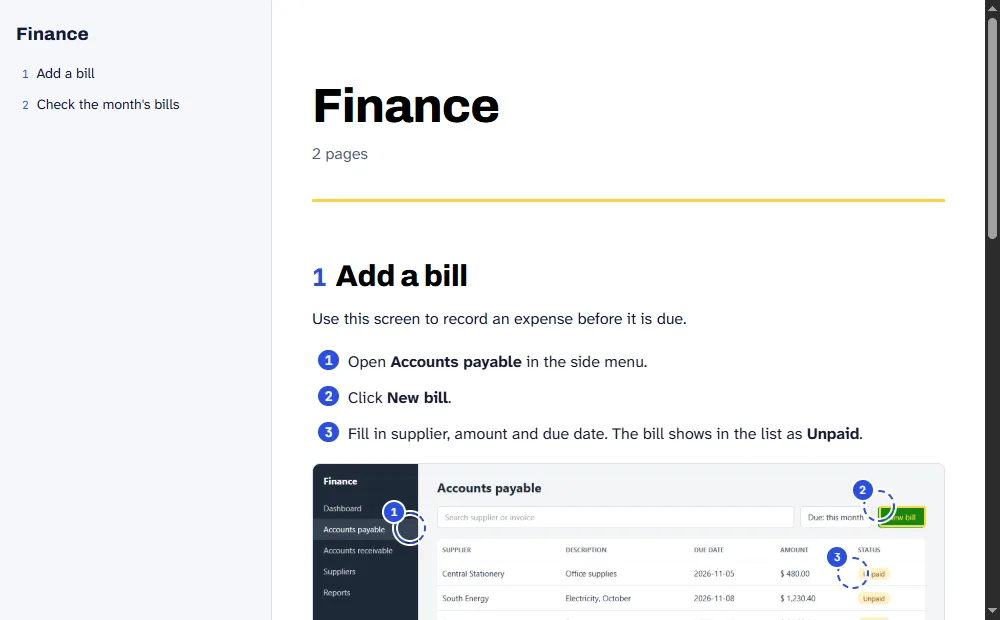
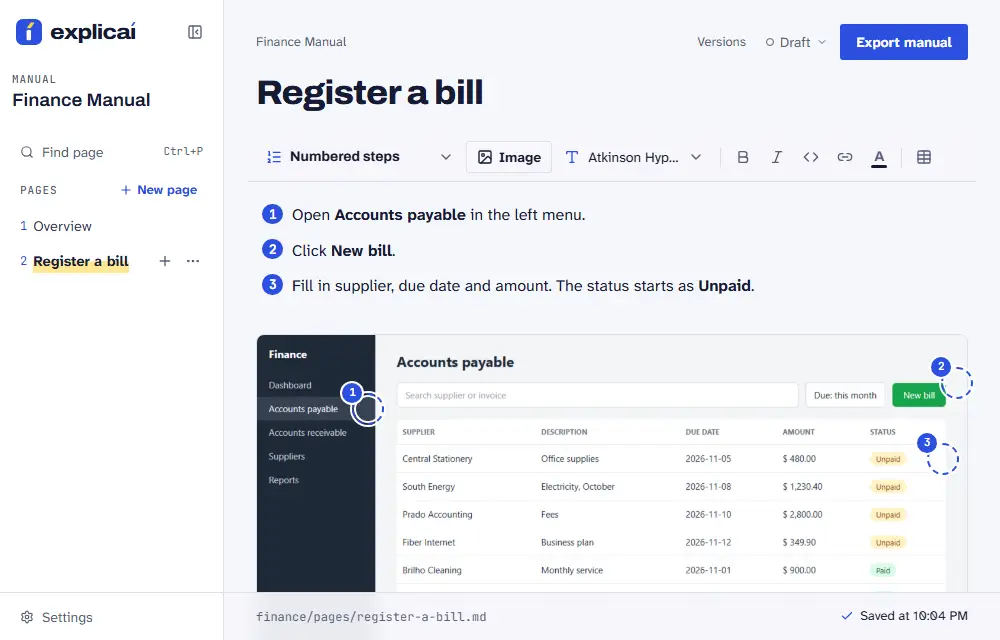
fix(site): prints novos do Studio, com variante escura / new Studio screenshots, with dark variants
Refaz hero, ocultar, marca, tamanho e marcações numa rodada só (Studio 0.2.1,
pt e en, sem barra de rolagem, marcadores fora do texto). Cada print ganha
variante escura via picture e prefers-color-scheme. Fecha T-013 a T-016.

diff --git a/site/features/index.html b/site/features/index.html
@@ -61,28 +61,28 @@
 <section class="rec" id="ocultar">
 <div class="wrap">
 <div class="txt"><span class="num" aria-hidden="true">01</span><h2>Esconda o dado do cliente antes de o print sair da sua máquina.</h2><p>Selecione a área com a ferramenta Ocultar (tecla O) e escolha tarja ou desfoque. O Studio grava o efeito nos pixels da imagem e apaga o original. Não sobra camada para alguém remover depois.</p><ul class="det"><li><b>Tarja ou desfoque forte.</b> A tarja é o padrão. O desfoque pixela e borra a área.</li><li><b>Original apagado.</b> Se a pasta do manual está no git, o Studio avisa antes.</li><li><b>Exports antigos.</b> O lembrete na tela diz que HTML e PDF já gerados ainda têm o original. Gere de novo.</li><li><b>Sem aplicar, nada acontece.</b> Sair sem aplicar a ocultação pede confirmação.</li></ul></div>
-<figure><img src="../img/feat-ocultar-pt.webp" width="1230" height="752" loading="eager" alt="Janela Editar imagem com a ferramenta Ocultar ativa: uma tarja escura cobre a coluna Fornecedor da tabela Contas a pagar, e o painel ao lado oferece Tarja, Desfoque e Aplicar ocultação. Três marcadores numerados ficam sobre o menu, o botão Nova conta e a situação."><figcaption>A tarja cobre a coluna de fornecedores antes de aplicar.</figcaption></figure>
+<figure><picture><source srcset="../img/feat-ocultar-pt-dark.webp" media="(prefers-color-scheme:dark)"><img src="../img/feat-ocultar-pt.webp" width="960" height="602" loading="eager" alt="Janela Editar imagem com a ferramenta Ocultar ativa: uma tarja escura cobre a coluna Fornecedor da tabela Contas a pagar, e o painel ao lado oferece Tarja, Desfoque e Aplicar ocultação. Três marcadores numerados ficam sobre o menu, o botão Nova conta e a situação."></picture><figcaption>A tarja cobre a coluna de fornecedores antes de aplicar.</figcaption></figure>
 </div>
 </section>
 
 <section class="rec alt inv" id="marca">
 <div class="wrap">
 <div class="txt"><span class="num" aria-hidden="true">02</span><h2>O manual sai com a cara do cliente.</h2><p>No diálogo de exportação você sobe o logo e escolhe as cores e a fonte. Cada manual guarda o seu tema, então o visual de um cliente não vaza para o de outro.</p><ul class="det"><li><b>Logo na capa.</b> Aparece também no topo do sumário, no HTML e no PDF. Aceita PNG, JPG e SVG.</li><li><b>Cores do tema.</b> Texto, destaque, realce e cada nível de título, com paletas prontas e o código da cor.</li><li><b>Nove fontes.</b> Archivo, Atkinson Hyperlegible Next, Inter, Source Sans 3, Source Serif 4, Lora, Montserrat, Playfair Display e JetBrains Mono. Vão junto do HTML exportado, sem depender de rede.</li><li><b>Aviso de contraste.</b> O diálogo avisa quando a cor escolhida não chega a 4,5:1 com o branco.</li></ul></div>
-<figure><img src="../img/feat-marca-pt.webp" width="1280" height="949" loading="lazy" alt="Diálogo Exportar manual com os formatos Site, PDF e Markdown, o logo do cliente já enviado e as cores do manual, com a paleta Ameixa escolhida."><figcaption>Logo, cores e fontes ficam no mesmo diálogo da exportação.</figcaption></figure>
+<figure><picture><source srcset="../img/feat-marca-pt-dark.webp" media="(prefers-color-scheme:dark)"><img src="../img/feat-marca-pt.webp" width="1000" height="720" loading="lazy" alt="Diálogo Exportar manual rolado até o logo do cliente e as cores do manual: o logo Prado Contabilidade já enviado e a paleta Ameixa escolhida."></picture><figcaption>Logo, cores e fontes ficam no mesmo diálogo da exportação.</figcaption></figure>
 </div>
 </section>
 
 <section class="rec" id="recortar">
 <div class="wrap">
 <div class="txt"><span class="num" aria-hidden="true">03</span><h2>Corte, dimensione e emagreça o print.</h2><p>Print de tela cheia pesa e distrai. Recorte o que importa, escolha quanto espaço a imagem ocupa e reduza o arquivo.</p><ul class="det"><li><b>Recortar (R).</b> As marcações acompanham o corte, e a confirmação lista as que vão sumir.</li><li><b>Tamanho.</b> Pequena, Média ou Larga. Fica guardado ao lado da imagem e vale no editor, no HTML e no PDF.</li><li><b>Reduzir resolução e peso.</b> Sugere 1600 px de largura, mostra o peso antes e depois e nunca amplia a imagem. Fica livre quando não há recorte nem ocultação pendente.</li></ul></div>
-<figure><img src="../img/feat-tamanho-pt.webp" width="1230" height="752" loading="lazy" alt="Janela Editar imagem com a ferramenta Recortar ativa: um retângulo tracejado marca a parte que fica, e o painel Reduzir imagem mostra 3840 × 2160 px, largura de 1600 px e o peso previsto."><figcaption>Recorte em andamento e, ao lado, o painel Reduzir imagem.</figcaption></figure>
+<figure><picture><source srcset="../img/feat-tamanho-pt-dark.webp" media="(prefers-color-scheme:dark)"><img src="../img/feat-tamanho-pt.webp" width="960" height="602" loading="lazy" alt="Janela Editar imagem com a ferramenta Recortar ativa: um retângulo marca a parte que fica, e o painel Reduzir imagem mostra 2400 × 1400 px, largura de 1600 px e o peso previsto."></picture><figcaption>Recorte em andamento e, ao lado, o painel Reduzir imagem.</figcaption></figure>
 </div>
 </section>
 
 <section class="rec alt inv" id="marcacoes">
 <div class="wrap">
 <div class="txt"><span class="num" aria-hidden="true">04</span><h2>Marque a tela e explique cada ponto.</h2><p>Marcadores numerados, destaques, setas e áreas clicáveis, com uma legenda para cada número. A mesma marcação aparece no editor, no HTML e no PDF.</p><ul class="det"><li><b>Atalhos de letra.</b> V seleciona, M marca, D destaca, S desenha seta, A cria área clicável.</li><li><b>Área clicável.</b> Um ponto do print vira link para outra página do manual.</li><li><b>Legenda.</b> Quem lê vê o número e o que ele mostra, logo abaixo da imagem.</li></ul></div>
-<figure><img src="../img/passo-2-pt.webp" width="1000" height="700" loading="lazy" alt="Print da tela Contas a pagar no editor, com três marcadores numerados, o botão Nova conta destacado em amarelo e a legenda de cada número logo abaixo."><figcaption>Marcadores, destaque e legenda no print.</figcaption></figure>
+<figure><picture><source srcset="../img/feat-marcacoes-pt-dark.webp" media="(prefers-color-scheme:dark)"><img src="../img/feat-marcacoes-pt.webp" width="960" height="734" loading="lazy" alt="Janela Editar imagem sobre a tela Contas a pagar, com três marcadores numerados, o filtro de vencimento destacado em amarelo, uma seta até ele e a legenda de cada número no painel ao lado: Menu Contas a pagar, Botão Nova conta, Situação da conta."></picture><figcaption>Marcadores, destaque e seta no print, com a legenda de cada número.</figcaption></figure>
 </div>
 </section>
 
@@ -104,7 +104,7 @@
 <section class="rec" id="exportacao">
 <div class="wrap">
 <div class="txt"><span class="num" aria-hidden="true">07</span><h2>PDF para ler, HTML para publicar, Markdown para a IA.</h2><p>Um clique gera o formato. O Markdown sai em um arquivo só, com a legenda dos prints em texto.</p><div class="fmts"><div><code>PDF</code><span>Para imprimir ou mandar por e-mail.</span></div><div><code>HTML</code><span>Um arquivo para publicar ou abrir no navegador.</span></div><div><code>MD</code><span>Um arquivo só, com a legenda dos prints em texto.</span></div></div></div>
-<figure><img src="../img/passo-3-pt.webp" width="1000" height="700" loading="lazy" alt="Janela Exportar manual com três formatos para escolher: Site (HTML), PDF e Markdown para IA."><figcaption>Os três formatos no diálogo de exportação.</figcaption></figure>
+<figure><img src="../img/passo-3-pt.webp" width="1000" height="700" loading="lazy" alt="Janela Exportar manual com três formatos para escolher: Site (HTML), PDF e Markdown para IA."></picture><figcaption>Os três formatos no diálogo de exportação.</figcaption></figure>
 </div>
 </section>
 

diff --git a/site/en/features/index.html b/site/en/features/index.html
@@ -61,28 +61,28 @@
 <section class="rec" id="ocultar">
 <div class="wrap">
 <div class="txt"><span class="num" aria-hidden="true">01</span><h2>Hide the client's data before the screenshot leaves your machine.</h2><p>Select the area with the Hide tool (key O) and pick a bar or a blur. Studio burns the effect into the image pixels and deletes the original. No layer is left for someone to remove later.</p><ul class="det"><li><b>Bar or strong blur.</b> The bar is the default. The blur pixelates and smears the area.</li><li><b>Original deleted.</b> If the manual folder is in git, Studio warns you first.</li><li><b>Old exports.</b> An on-screen reminder says HTML and PDF files you already made still hold the original. Export again.</li><li><b>Nothing happens until you apply.</b> Leaving without applying asks for confirmation.</li></ul></div>
-<figure><img src="../../img/feat-ocultar-en.webp" width="1230" height="752" loading="eager" alt="Edit image window with the Hide tool active: a dark bar covers the Supplier column of the Accounts payable table, and the side panel offers Bar, Blur and Apply hiding. Three numbered markers sit on the menu, the New bill button and the status."><figcaption>The bar covers the supplier column before you apply it.</figcaption></figure>
+<figure><picture><source srcset="../../img/feat-ocultar-en-dark.webp" media="(prefers-color-scheme:dark)"><img src="../../img/feat-ocultar-en.webp" width="960" height="602" loading="eager" alt="Edit image window with the Hide tool active: a dark bar covers the Supplier column of the Accounts payable table, and the side panel offers Bar, Blur and Apply hiding. Three numbered markers sit on the menu, the New bill button and the status."></picture><figcaption>The bar covers the supplier column before you apply it.</figcaption></figure>
 </div>
 </section>
 
 <section class="rec alt inv" id="marca">
 <div class="wrap">
 <div class="txt"><span class="num" aria-hidden="true">02</span><h2>The manual comes out looking like the client's.</h2><p>In the export dialog you upload the logo and pick the colors and fonts. Each manual keeps its own theme, so one client's look never leaks into another's.</p><ul class="det"><li><b>Logo on the cover.</b> It also shows at the top of the contents, in HTML and PDF. PNG, JPG and SVG.</li><li><b>Theme colors.</b> Text, accent, highlight and each heading level, with ready palettes and the color code.</li><li><b>Nine fonts.</b> Archivo, Atkinson Hyperlegible Next, Inter, Source Sans 3, Source Serif 4, Lora, Montserrat, Playfair Display and JetBrains Mono. They travel with the exported HTML, no network needed.</li><li><b>Contrast warning.</b> The dialog warns you when a color does not reach 4.5:1 against white.</li></ul></div>
-<figure><img src="../../img/feat-marca-en.webp" width="1280" height="949" loading="lazy" alt="Export manual dialog with the Website, PDF and Markdown formats, the uploaded client logo and the manual colors, with the Plum palette selected."><figcaption>Logo, colors and fonts live in the export dialog.</figcaption></figure>
+<figure><picture><source srcset="../../img/feat-marca-en-dark.webp" media="(prefers-color-scheme:dark)"><img src="../../img/feat-marca-en.webp" width="1000" height="720" loading="lazy" alt="Export manual dialog scrolled to the client logo and the manual colors: the Prado Accounting logo is uploaded and the Plum palette is selected."></picture><figcaption>Logo, colors and fonts live in the export dialog.</figcaption></figure>
 </div>
 </section>
 
 <section class="rec" id="recortar">
 <div class="wrap">
 <div class="txt"><span class="num" aria-hidden="true">03</span><h2>Crop, resize and slim down the screenshot.</h2><p>Full-screen shots are heavy and distracting. Crop what matters, choose how much room the image takes and shrink the file.</p><ul class="det"><li><b>Crop (R).</b> Markups follow the crop, and the confirmation lists the ones that will go away.</li><li><b>Size.</b> Small, Medium or Large. It is stored next to the image and applies in the editor, HTML and PDF.</li><li><b>Reduce resolution and weight.</b> Suggests 1600 px wide, shows the weight before and after and never scales an image up. It is free once no crop or hiding is pending.</li></ul></div>
-<figure><img src="../../img/feat-tamanho-en.webp" width="1230" height="752" loading="lazy" alt="Edit image window with the Crop tool active: a dashed rectangle marks the part to keep, and the Reduce image panel shows 3840 × 2160 px, a 1600 px width and the expected weight."><figcaption>A crop in progress and, beside it, the Reduce image panel.</figcaption></figure>
+<figure><picture><source srcset="../../img/feat-tamanho-en-dark.webp" media="(prefers-color-scheme:dark)"><img src="../../img/feat-tamanho-en.webp" width="960" height="602" loading="lazy" alt="Edit image window with the Crop tool active: a rectangle marks the part to keep, and the Reduce image panel shows 2400 × 1400 px, a 1600 px width and the expected weight."></picture><figcaption>A crop in progress and, beside it, the Reduce image panel.</figcaption></figure>
 </div>
 </section>
 
 <section class="rec alt inv" id="marcacoes">
 <div class="wrap">
 <div class="txt"><span class="num" aria-hidden="true">04</span><h2>Mark up the screen and explain each point.</h2><p>Numbered markers, highlights, arrows and clickable areas, with a caption for each number. The same markup shows in the editor, HTML and PDF.</p><ul class="det"><li><b>Letter shortcuts.</b> V selects, M places a marker, D highlights, S draws an arrow, A makes a clickable area.</li><li><b>Clickable area.</b> A spot on the screenshot becomes a link to another page of the manual.</li><li><b>Captions.</b> Readers see the number and what it points at, right below the image.</li></ul></div>
-<figure><img src="../../img/passo-2-en.webp" width="1000" height="700" loading="lazy" alt="Screenshot of the Contas a pagar screen in the editor, with three numbered markers, the Nova conta button highlighted in yellow and a caption for each number below it."><figcaption>Markers, highlight and captions on a screenshot.</figcaption></figure>
+<figure><picture><source srcset="../../img/feat-marcacoes-en-dark.webp" media="(prefers-color-scheme:dark)"><img src="../../img/feat-marcacoes-en.webp" width="960" height="734" loading="lazy" alt="Edit image window on the Accounts payable screen, with three numbered markers, the due-date filter highlighted in yellow, an arrow pointing at it and a caption for each number in the side panel: Accounts payable menu, New bill button, Bill status."></picture><figcaption>Markers, a highlight and an arrow on the screenshot, with a caption for each number.</figcaption></figure>
 </div>
 </section>
 
@@ -104,7 +104,7 @@
 <section class="rec" id="exportacao">
 <div class="wrap">
 <div class="txt"><span class="num" aria-hidden="true">07</span><h2>PDF to read, HTML to publish, Markdown for the AI.</h2><p>One click makes the format. Markdown comes out as a single file, with screenshot captions as text.</p><div class="fmts"><div><code>PDF</code><span>To print or send by email.</span></div><div><code>HTML</code><span>One file to publish or open in the browser.</span></div><div><code>MD</code><span>A single file, with screenshot captions as text.</span></div></div></div>
-<figure><img src="../../img/passo-3-en.webp" width="1000" height="700" loading="lazy" alt="Export manual window with three formats to choose from: Website (HTML), PDF and Markdown for AI."><figcaption>The three formats in the export dialog.</figcaption></figure>
+<figure><img src="../../img/passo-3-en.webp" width="1000" height="700" loading="lazy" alt="Export manual window with three formats to choose from: Website (HTML), PDF and Markdown for AI."></picture><figcaption>The three formats in the export dialog.</figcaption></figure>
 </div>
 </section>
 

diff --git a/site/index.html b/site/index.html
@@ -54,7 +54,7 @@
 <p style="margin-top:12px"><a href="demo/">Ver um manual de exemplo →</a></p>
 </div>
 <figure>
-<img src="img/hero-pt.webp" width="1000" height="620" fetchpriority="high" alt="Manual Financeiro exportado em HTML: índice à esquerda e, à direita, a página Cadastrar conta a pagar com três passos e o print da tela marcado com os números 1, 2 e 3.">
+<picture><source srcset="img/hero-pt-dark.webp" media="(prefers-color-scheme:dark)"><img src="img/hero-pt.webp" width="1000" height="640" fetchpriority="high" alt="Studio com a página Cadastrar conta a pagar aberta: três passos numerados e, abaixo, o print da tela Contas a pagar marcado com os números 1, 2 e 3."></picture>
 </figure>
 </div>
 </section>

diff --git a/site/en/index.html b/site/en/index.html
@@ -55,7 +55,7 @@
 <p style="margin-top:12px"><a href="demo/">See a sample manual →</a></p>
 </div>
 <figure>
-<img src="../img/hero-en.webp" width="1000" height="620" fetchpriority="high" alt="Finance manual exported to HTML: contents on the left and, on the right, the Add a bill page with three steps and the screenshot marked with the numbers 1, 2 and 3.">
+<picture><source srcset="../img/hero-en-dark.webp" media="(prefers-color-scheme:dark)"><img src="../img/hero-en.webp" width="1000" height="640" fetchpriority="high" alt="Studio with the Register a bill page open: three numbered steps and, below them, the Accounts payable screenshot marked with the numbers 1, 2 and 3."></picture>
 </figure>
 </div>
 </section>

diff --git a/docs/tickets/README.md b/docs/tickets/README.md
@@ -11,10 +11,6 @@ Ticket fechado (feito ou descartado) vai para `fechados/` com `git mv`.
 | ID | Título | Prioridade | Status | Agente |
 |----|--------|------------|--------|--------|
 | [T-012](T-012-pagina-de-recursos-e-secao-o-que-vem-junto.md) | Página de recursos e seção "O que vem junto" | P1 | em andamento | supervisor |
-| [T-013](T-013-prints-de-marcacoes-e-exportacao-desatualizados.md) | Prints de Marcações e Exportação em Recursos estão desatualizados | P2 | aberto | frontend |
-| [T-014](T-014-alt-em-portugues-na-pagina-en.md) | Alt de imagem em português na página de recursos em inglês | P2 | aberto | frontend |
-| [T-015](T-015-prints-claros-no-tema-escuro.md) | Prints do produto são caixas brancas no tema escuro | P2 | aberto | frontend |
-| [T-016](T-016-print-do-heroi.md) | Print do herói: barra de rolagem gravada, marcadores sobre o texto, ilegível | P2 | aberto | frontend |
 | [T-017](T-017-secao-veja-pronto-isolada-na-home.md) | Seção "Veja pronto" isolada na home | P2 | aberto | frontend |
 | [T-018](T-018-home-nao-diz-para-quem-e.md) | A home não diz para quem é | P2 | aberto | frontend |
 | [T-019](T-019-enxugar-pagina-de-recursos.md) | Enxugar a página de recursos | P2 | aberto | frontend |
@@ -35,3 +31,7 @@ Ticket fechado (feito ou descartado) vai para `fechados/` com `git mv`.
 | [T-009](fechados/T-009-prints-do-produto-com-fundo-branco-no-tema-es.md) | Prints do produto com fundo branco no tema escuro | P3 | descartado | - |
 | [T-010](fechados/T-010-imagens-de-compartilhamento-mostram-github-co.md) | Imagens de compartilhamento mostram github.com/gabriel-codesampaio/explicai | P3 | feito | 6ccf97e |
 | [T-011](fechados/T-011-configurar-os-repositorios-no-github-descrica.md) | Configurar os repositórios no GitHub (descrição, homepage, topics, README) | P2 | feito | - |
+| [T-013](fechados/T-013-prints-de-marcacoes-e-exportacao-desatualizados.md) | Prints de Marcações e Exportação em Recursos estão desatualizados | P2 | feito | pendente |
+| [T-014](fechados/T-014-alt-em-portugues-na-pagina-en.md) | Alt de imagem em português na página de recursos em inglês | P2 | feito | pendente |
+| [T-015](fechados/T-015-prints-claros-no-tema-escuro.md) | Prints do produto são caixas brancas no tema escuro | P2 | feito | pendente |
+| [T-016](fechados/T-016-print-do-heroi.md) | Print do herói: barra de rolagem gravada, marcadores sobre o texto, ilegível | P2 | feito | pendente |

diff --git a/docs/tickets/fechados/T-013-prints-de-marcacoes-e-exportacao-desatualizados.md b/docs/tickets/fechados/T-013-prints-de-marcacoes-e-exportacao-desatualizados.md
@@ -2,7 +2,7 @@
 
 - Prioridade: P2
 - Tamanho: M
-- Status: aberto
+- Status: feito
 - Agente: frontend
 - Origem: critique da landing, 2026-11-03 (docs/discovery/2026-11-03-critique-landing.md)
 
@@ -10,10 +10,13 @@
 Os blocos 04 (Marcações) e 07 (Exportação) usam passo-2 e passo-3, prints antigos: recorte com a barra de ferramentas e o texto cortados ("Result: the bill stays..." pela metade), barra de rolagem gravada na imagem, título "Add a bi" truncado. O bloco 04 fala dos atalhos V, M, D, S, A e o print não mostra nenhuma ferramenta. O bloco 07 repete o diálogo de exportação que o bloco 02 já mostra maior.
 
 ## Critérios de aceite
-- [ ] Bloco 04 com print do Studio 0.2 que mostra a barra de marcação (marcador, destaque, seta, área), sem texto cortado nem barra de rolagem, pt e en.
-- [ ] Bloco 07 sem repetir o diálogo do bloco 02: recorte só dos três formatos ou sem imagem (ver T-019).
-- [ ] Texto da imagem no idioma da página (en com UI em inglês); alt descreve o que a imagem mostra.
-- [ ] Peso por imagem não sobe em relação ao atual.
+- [x] Bloco 04 com print do Studio 0.2 que mostra a barra de marcação (marcador, destaque, seta, área), sem texto cortado nem barra de rolagem, pt e en.
+- [x] Bloco 07 sem repetir o diálogo do bloco 02: recorte só dos três formatos ou sem imagem (ver T-019).
+- [x] Texto da imagem no idioma da página (en com UI em inglês); alt descreve o que a imagem mostra.
+- [x] Peso por imagem não sobe em relação ao atual.
 
 ## Onde
 site/img/passo-2-*.webp, site/img/passo-3-*.webp, site/features/index.html, site/en/features/index.html
+
+## Registro
+Bloco 04 usa feat-marcacoes (barra de marcação, três marcadores, destaque, seta e legenda), sem recorte cortado nem barra de rolagem. O bloco 07 perde a imagem repetida em T-019. Prints refeitos com o Studio 0.2.1, pt e en, numa rodada só.

diff --git a/docs/tickets/fechados/T-016-print-do-heroi.md b/docs/tickets/fechados/T-016-print-do-heroi.md
@@ -2,7 +2,7 @@
 
 - Prioridade: P2
 - Tamanho: M
-- Status: aberto
+- Status: feito
 - Agente: frontend
 - Origem: critique da landing, 2026-11-03 (docs/discovery/2026-11-03-critique-landing.md)
 
@@ -10,10 +10,13 @@
 O hero-pt/en.webp mostra o manual exportado com a barra de rolagem do navegador no canto direito. Os marcadores 2 e 3 cobrem o N de "New bill" e o U de "Unpaid". A 600 px de largura (333 px em 375) o texto da tabela não se lê. A imagem mostra o manual pronto, não o Studio em uso, que é o que o público escolhe instalar.
 
 ## Critérios de aceite
-- [ ] Print do herói sem barra de rolagem e com os marcadores ao lado do elemento, não sobre o texto.
-- [ ] Recorte que se lê em 600 px: título do manual, um passo e um marcador, sem tabela miúda.
-- [ ] Decisão registrada: herói mostra o manual pronto ou o Studio; a outra imagem fica em Recursos.
-- [ ] pt e en; alt atualizado; peso igual ou menor.
+- [x] Print do herói sem barra de rolagem e com os marcadores ao lado do elemento, não sobre o texto.
+- [x] Recorte que se lê em 600 px: título do manual, um passo e um marcador, sem tabela miúda.
+- [x] Decisão registrada: herói mostra o manual pronto ou o Studio; a outra imagem fica em Recursos.
+- [x] pt e en; alt atualizado; peso igual ou menor.
 
 ## Onde
 site/img/hero-*.webp, site/index.html, site/en/index.html
+
+## Registro
+Herói mostra o Studio com a página aberta (passos e print marcado), sem barra de rolagem, marcadores fora do texto, legível a 600 px. O manual pronto fica na demo. 1000x640, pt e en.

diff --git a/docs/tickets/fechados/T-015-prints-claros-no-tema-escuro.md b/docs/tickets/fechados/T-015-prints-claros-no-tema-escuro.md
@@ -1,0 +1,22 @@
+# T-015: Prints do produto são caixas brancas no tema escuro
+
+- Prioridade: P2
+- Tamanho: M
+- Status: feito
+- Agente: frontend
+- Origem: critique da landing, 2026-11-03 (docs/discovery/2026-11-03-critique-landing.md)
+
+## Problema
+Hero e os cinco prints de Recursos só têm versão clara. No tema escuro viram retângulos brancos sobre o fundo #0e1120, a parte mais brilhante da página, e puxam o olho para longe do texto. O T-009 descartou o caso quando só havia o hero; agora são seis imagens.
+
+## Critérios de aceite
+- [x] Decisão registrada: o Studio tem tema escuro? Se tem, prints escuros via <picture> com prefers-color-scheme; se não, moldura de janela com borda e sombra suaves que assentem o branco no fundo.
+- [x] No tema escuro, nenhuma imagem é a área mais clara da primeira dobra do herói (conferir em 1280 e 375).
+- [x] Tema claro igual ao de hoje; sem rolagem lateral em 375.
+- [x] Peso total das imagens não dobra (variante escura só onde valer a pena).
+
+## Onde
+site/styles.css, site/img/, site/index.html, site/en/index.html, site/features/, site/en/features/
+
+## Registro
+O Studio tem tema escuro (Ajustes > Aparência). Todos os prints têm variante escura real (-dark.webp) via picture e prefers-color-scheme. O site não tem seletor de tema próprio, segue o do sistema.

diff --git a/docs/tickets/fechados/T-014-alt-em-portugues-na-pagina-en.md b/docs/tickets/fechados/T-014-alt-em-portugues-na-pagina-en.md
@@ -2,7 +2,7 @@
 
 - Prioridade: P2
 - Tamanho: P
-- Status: aberto
+- Status: feito
 - Agente: frontend
 - Origem: critique da landing, 2026-11-03 (docs/discovery/2026-11-03-critique-landing.md)
 
@@ -10,8 +10,11 @@
 Em site/en/features/index.html (linha 85) o alt do print de Marcações diz "Contas a pagar" e "Nova conta", mas a imagem en mostra "Accounts payable" e "New bill". Leitor de tela lê o alt errado.
 
 ## Critérios de aceite
-- [ ] Alt do passo-2-en cita os rótulos que a imagem en mostra (Accounts payable, New bill).
-- [ ] grep por palavras em português em site/en/ só acha nome próprio ou trecho citado de propósito.
+- [x] Alt do passo-2-en cita os rótulos que a imagem en mostra (Accounts payable, New bill).
+- [x] grep por palavras em português em site/en/ só acha nome próprio ou trecho citado de propósito.
 
 ## Onde
 site/en/features/index.html
+
+## Registro
+Alt do print de marcações reescrito junto com a imagem (Accounts payable, New bill, Bill status). grep por palavras em português em site/en/ só acha nomes de arquivo de imagem.
